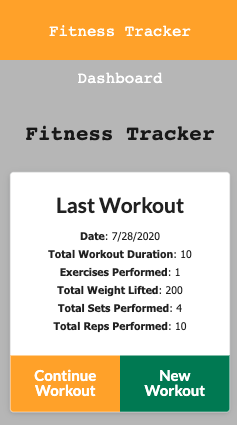
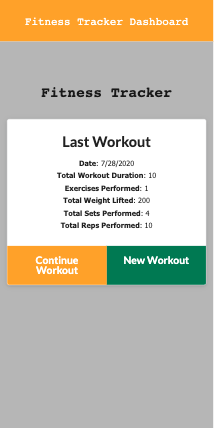
updated css

diff --git a/build/index.html b/build/index.html
@@ -1,1 +1,1 @@
-<!doctype html><html lang="en"><head><meta charset="utf-8"/><link rel="stylesheet" href="https://stackpath.bootstrapcdn.com/bootstrap/4.4.1/css/bootstrap.min.css" integrity="sha384-Vkoo8x4CGsO3+Hhxv8T/Q5PaXtkKtu6ug5TOeNV6gBiFeWPGFN9MuhOf23Q9Ifjh" crossorigin="anonymous"><link href="https://fonts.googleapis.com/css2?family=Allura&family=Merienda:wght@700&family=Parisienne&family=Sacramento&family=Shadows+Into+Light&display=swap" rel="stylesheet"><meta name="viewport" content="width=device-width,initial-scale=1"/><meta name="theme-color" content="#000000"/><meta name="description" content="Web site created using create-react-app"/><link rel="manifest" href="/ReactPortfolio/manifest.json"/><title>Macy Molina</title><link href="/ReactPortfolio/static/css/main.eab1a7c8.chunk.css" rel="stylesheet"></head><body><noscript>You need to enable JavaScript to run this app.</noscript><div id="root"></div><script src="https://code.jquery.com/jquery-3.4.1.slim.min.js" integrity="sha384-J6qa4849blE2+poT4WnyKhv5vZF5SrPo0iEjwBvKU7imGFAV0wwj1yYfoRSJoZ+n" crossorigin="anonymous"></script><script src="https://cdn.jsdelivr.net/npm/popper.js@1.16.0/dist/umd/popper.min.js" integrity="sha384-Q6E9RHvbIyZFJoft+2mJbHaEWldlvI9IOYy5n3zV9zzTtmI3UksdQRVvoxMfooAo" crossorigin="anonymous"></script><script src="https://stackpath.bootstrapcdn.com/bootstrap/4.4.1/js/bootstrap.min.js" integrity="sha384-wfSDF2E50Y2D1uUdj0O3uMBJnjuUD4Ih7YwaYd1iqfktj0Uod8GCExl3Og8ifwB6" crossorigin="anonymous"></script><script>!function(e){function r(r){for(var n,l,f=r[0],i=r[1],a=r[2],c=0,s=[];c<f.length;c++)l=f[c],Object.prototype.hasOwnProperty.call(o,l)&&o[l]&&s.push(o[l][0]),o[l]=0;for(n in i)Object.prototype.hasOwnProperty.call(i,n)&&(e[n]=i[n]);for(p&&p(r);s.length;)s.shift()();return u.push.apply(u,a||[]),t()}function t(){for(var e,r=0;r<u.length;r++){for(var t=u[r],n=!0,f=1;f<t.length;f++){var i=t[f];0!==o[i]&&(n=!1)}n&&(u.splice(r--,1),e=l(l.s=t[0]))}return e}var n={},o={1:0},u=[];function l(r){if(n[r])return n[r].exports;var t=n[r]={i:r,l:!1,exports:{}};return e[r].call(t.exports,t,t.exports,l),t.l=!0,t.exports}l.m=e,l.c=n,l.d=function(e,r,t){l.o(e,r)||Object.defineProperty(e,r,{enumerable:!0,get:t})},l.r=function(e){"undefined"!=typeof Symbol&&Symbol.toStringTag&&Object.defineProperty(e,Symbol.toStringTag,{value:"Module"}),Object.defineProperty(e,"__esModule",{value:!0})},l.t=function(e,r){if(1&r&&(e=l(e)),8&r)return e;if(4&r&&"object"==typeof e&&e&&e.__esModule)return e;var t=Object.create(null);if(l.r(t),Object.defineProperty(t,"default",{enumerable:!0,value:e}),2&r&&"string"!=typeof e)for(var n in e)l.d(t,n,function(r){return e[r]}.bind(null,n));return t},l.n=function(e){var r=e&&e.__esModule?function(){return e.default}:function(){return e};return l.d(r,"a",r),r},l.o=function(e,r){return Object.prototype.hasOwnProperty.call(e,r)},l.p="/ReactPortfolio/";var f=this.webpackJsonpreactportfolio=this.webpackJsonpreactportfolio||[],i=f.push.bind(f);f.push=r,f=f.slice();for(var a=0;a<f.length;a++)r(f[a]);var p=i;t()}([])</script><script src="/ReactPortfolio/static/js/2.d7f67019.chunk.js"></script><script src="/ReactPortfolio/static/js/main.eccd266c.chunk.js"></script></body></html>
+<!doctype html><html lang="en"><head><meta charset="utf-8"/><link rel="stylesheet" href="https://stackpath.bootstrapcdn.com/bootstrap/4.4.1/css/bootstrap.min.css" integrity="sha384-Vkoo8x4CGsO3+Hhxv8T/Q5PaXtkKtu6ug5TOeNV6gBiFeWPGFN9MuhOf23Q9Ifjh" crossorigin="anonymous"><link href="https://fonts.googleapis.com/css2?family=Allura&family=Merienda:wght@700&family=Parisienne&family=Sacramento&family=Shadows+Into+Light&display=swap" rel="stylesheet"><meta name="viewport" content="width=device-width,initial-scale=1"/><meta name="theme-color" content="#000000"/><meta name="description" content="Web site created using create-react-app"/><link rel="manifest" href="/ReactPortfolio/manifest.json"/><title>Macy Molina</title><link href="/ReactPortfolio/static/css/main.378d960f.chunk.css" rel="stylesheet"></head><body><noscript>You need to enable JavaScript to run this app.</noscript><div id="root"></div><script src="https://code.jquery.com/jquery-3.4.1.slim.min.js" integrity="sha384-J6qa4849blE2+poT4WnyKhv5vZF5SrPo0iEjwBvKU7imGFAV0wwj1yYfoRSJoZ+n" crossorigin="anonymous"></script><script src="https://cdn.jsdelivr.net/npm/popper.js@1.16.0/dist/umd/popper.min.js" integrity="sha384-Q6E9RHvbIyZFJoft+2mJbHaEWldlvI9IOYy5n3zV9zzTtmI3UksdQRVvoxMfooAo" crossorigin="anonymous"></script><script src="https://stackpath.bootstrapcdn.com/bootstrap/4.4.1/js/bootstrap.min.js" integrity="sha384-wfSDF2E50Y2D1uUdj0O3uMBJnjuUD4Ih7YwaYd1iqfktj0Uod8GCExl3Og8ifwB6" crossorigin="anonymous"></script><script>!function(e){function r(r){for(var n,l,f=r[0],i=r[1],a=r[2],c=0,s=[];c<f.length;c++)l=f[c],Object.prototype.hasOwnProperty.call(o,l)&&o[l]&&s.push(o[l][0]),o[l]=0;for(n in i)Object.prototype.hasOwnProperty.call(i,n)&&(e[n]=i[n]);for(p&&p(r);s.length;)s.shift()();return u.push.apply(u,a||[]),t()}function t(){for(var e,r=0;r<u.length;r++){for(var t=u[r],n=!0,f=1;f<t.length;f++){var i=t[f];0!==o[i]&&(n=!1)}n&&(u.splice(r--,1),e=l(l.s=t[0]))}return e}var n={},o={1:0},u=[];function l(r){if(n[r])return n[r].exports;var t=n[r]={i:r,l:!1,exports:{}};return e[r].call(t.exports,t,t.exports,l),t.l=!0,t.exports}l.m=e,l.c=n,l.d=function(e,r,t){l.o(e,r)||Object.defineProperty(e,r,{enumerable:!0,get:t})},l.r=function(e){"undefined"!=typeof Symbol&&Symbol.toStringTag&&Object.defineProperty(e,Symbol.toStringTag,{value:"Module"}),Object.defineProperty(e,"__esModule",{value:!0})},l.t=function(e,r){if(1&r&&(e=l(e)),8&r)return e;if(4&r&&"object"==typeof e&&e&&e.__esModule)return e;var t=Object.create(null);if(l.r(t),Object.defineProperty(t,"default",{enumerable:!0,value:e}),2&r&&"string"!=typeof e)for(var n in e)l.d(t,n,function(r){return e[r]}.bind(null,n));return t},l.n=function(e){var r=e&&e.__esModule?function(){return e.default}:function(){return e};return l.d(r,"a",r),r},l.o=function(e,r){return Object.prototype.hasOwnProperty.call(e,r)},l.p="/ReactPortfolio/";var f=this.webpackJsonpreactportfolio=this.webpackJsonpreactportfolio||[],i=f.push.bind(f);f.push=r,f=f.slice();for(var a=0;a<f.length;a++)r(f[a]);var p=i;t()}([])</script><script src="/ReactPortfolio/static/js/2.d7f67019.chunk.js"></script><script src="/ReactPortfolio/static/js/main.eccd266c.chunk.js"></script></body></html>

diff --git a/build/static/css/main.378d960f.chunk.css b/build/static/css/main.378d960f.chunk.css
@@ -1,0 +1,2 @@
+body{margin:0;font-family:-apple-system,BlinkMacSystemFont,"Segoe UI","Roboto","Oxygen","Ubuntu","Cantarell","Fira Sans","Droid Sans","Helvetica Neue",sans-serif;-webkit-font-smoothing:antialiased;-moz-osx-font-smoothing:grayscale}code{font-family:source-code-pro,Menlo,Monaco,Consolas,"Courier New",monospace}.about{margin:5%;text-align:center;font-family:"Merienda",cursive}h2{font-family:-apple-system,BlinkMacSystemFont,"Segoe UI","Roboto","Oxygen","Ubuntu","Cantarell","Fira Sans","Droid Sans","Helvetica Neue",sans-serif}#profilePic{margin-left:40%;border-style:solid;max-width:15%}.tag{color:#fff;text-transform:capitalize}.skills{font-family:"Merienda",cursive;margin-bottom:10%;font-size:larger;text-align:center;position:relative}@media screen and (max-width:600px){.skills{margin-bottom:15%}}@media screen and (max-width:600px){#profilePic{margin-left:25%;max-width:50%}}.container{margin-left:2%;text-transform:capitalize;margin-bottom:8%;width:30%;display:inline-grid}.imgBox{position:relative;overflow:hidden}.imgBoxText{background-color:#958d96}.imgCont{position:relative}.img-fluid{margin-left:25%;max-width:50%}.colorElement{position:absolute;top:50%;left:50%;pointer-events:none;width:calc(100% - 50px);height:calc(100% - 50px);transform:translate(-50%,-50%);-ms-transform:translate(-50%,-50%);-webkit-transform:translate(-50%,-50%)}.imgBox .colorElement{box-shadow:inset 0 0 0 0 hsla(0,0%,100%,.25);transition:all .5s ease}.imgBox:hover .colorElement{box-shadow:inset 0 0 0 40px hsla(0,0%,100%,.25);transition:all .5s ease .75s}.colorElement:before{top:0;left:0;border-top:1px solid #fff;border-left:1px solid #fff}.colorElement:after,.colorElement:before{content:"";position:absolute;width:0;height:0%;opacity:0;transition:all .25s ease .25s}.colorElement:after{bottom:0;right:0;border-right:1px solid #fff;border-bottom:1px solid #fff}.imgBox:hover .colorElement:after,.imgBox:hover .colorElement:before{width:100%;height:100%;opacity:1}.imgBox:hover .colorElement:before{height:100%;transition:all .25s ease 0s}.imgBox:hover .colorElement:after{width:100%;transition:all .25s ease 0s}.imgBox .imgCont:after{content:"";position:absolute;top:0;left:0;width:100%;height:100%;box-shadow:inset 0 0 0 0 rgba(0,0,0,.25);transition:all .5s ease .5s}.imgBox:hover .imgCont:after{box-shadow:inset 0 0 0 25px rgba(0,0,0,.25);transition:all .5s ease .5s}.row{margin-bottom:10%}.imgBoxCont{transition:all .5s ease .25s;top:0;right:0;text-align:left}.imgBox .imgBoxCont:before{content:"";position:relative;top:0;left:0;width:100%;height:100%;opacity:.8}.imgBoxText{transition:all .5s ease .25s;position:absolute;top:50%;left:0;padding:0 30px}.imgBox h2{text-align:center;font-family:"Merienda",cursive;font-size:48px;line-height:49px;margin:0 0 .3em;color:#fff}h2{display:block;font-size:1.5em;-webkit-margin-before:.83em;margin-block-start:.83em;-webkit-margin-after:.83em;margin-block-end:.83em;-webkit-margin-start:0;margin-inline-start:0;-webkit-margin-end:0;margin-inline-end:0;font-weight:700}.subtext{color:#000;text-align:center}.imgBox:hover .subtext{background-color:#958d96}.imgBox:hover p{margin:0 15%}.button{font-family:"Helvetica Neue",Helvetica,Roboto,Arial,sans-serif;font-weight:400;line-height:normal;margin:0 0 1.25rem;position:relative;text-decoration:underline;border-radius:0;padding:1rem 2rem 1.0625rem;font-size:1rem;background-color:#c97c7c;color:#fff;background-color:.3s ease-out}.button,.button a.button{cursor:pointer;text-align:center;-webkit-appearance:none;display:inline-block;border:10%}.button a.button{border-color:#958d96;text-transform:uppercase;text-decoration:none;margin:0 0 1em;font-size:1em;padding:.8em 1em;color:#fefefe;transition:all .25s ease-out;line-height:1;vertical-align:middle;width:auto;letter-spacing:2px;font-family:"Proxima N W01 Reg","Helvetica Neue",Helvetica,Arial,sans-serif}@media (max-width:992px){.imgBoxCont,.subtext{max-width:1140px}}@media (max-width:992px){.imgBoxText{display:none}}@media screen and (max-width:992px){.container{width:50%}}@media screen and (max-width:600px){.container{width:100%}}body{background-color:#c97c7c}nav{box-shadow:10px 5px 5px #000}.navbar-brand{font-family:"Sacramento",cursive;font-size:55px}.navbar-toggler{margin-left:37%}.content{font-family:"Merienda",cursive;font-size:larger;-webkit-margin-before:6%;margin-block-start:6%;color:#c97c7c}@media screen and (max-width:600px){.navbar-toggler{margin-left:42%;max-width:50%}}@media screen and (max-width:600px){.content,.nav-link,.navbar-nav{text-align:-webkit-center}}.footer{color:#c97c7c;font-size:15px;position:relative;text-align:center;left:0;bottom:50px;height:100px;width:100%}.footerConnectCont{font-family:"Merienda",cursive;text-transform:uppercase;background-color:#343a40;padding:10px}.gitImg,.linkedImg{margin-left:20px;max-width:40px}.footerNavCont{background-color:#000;text-align:center;position:relative;padding:50px 0 30px}#mm{margin:0}.topButton{bottom:0;left:50%;color:#f4f5ff;font-size:16px;line-height:1em;text-align:center;text-decoration:none;padding:13px 15px 15px;background-color:rgba(0,0,0,.15)}
+/*# sourceMappingURL=main.378d960f.chunk.css.map */

diff --git a/build/precache-manifest.a7466bc0aefb7234cd50eb460ae4fd75.js b/build/precache-manifest.a7466bc0aefb7234cd50eb460ae4fd75.js
@@ -1,11 +1,11 @@
 self.__precacheManifest = (self.__precacheManifest || []).concat([
   {
-    "revision": "9dc8f6af5b0ae98f4556d0fb9329c396",
+    "revision": "3121ffc20cc2771102da68ec3e7a3846",
     "url": "/ReactPortfolio/index.html"
   },
   {
-    "revision": "eb24346b4a7cf6c9a32e",
-    "url": "/ReactPortfolio/static/css/main.eab1a7c8.chunk.css"
+    "revision": "d5067a74fbfcc06ee005",
+    "url": "/ReactPortfolio/static/css/main.378d960f.chunk.css"
   },
   {
     "revision": "2e8e773f1e71bfb7b3e7",
@@ -16,7 +16,7 @@ self.__precacheManifest = (self.__precacheManifest || []).concat([
     "url": "/ReactPortfolio/static/js/2.d7f67019.chunk.js.LICENSE.txt"
   },
   {
-    "revision": "eb24346b4a7cf6c9a32e",
+    "revision": "d5067a74fbfcc06ee005",
     "url": "/ReactPortfolio/static/js/main.eccd266c.chunk.js"
   },
   {

diff --git a/build/service-worker.js b/build/service-worker.js
@@ -14,7 +14,7 @@
 importScripts("https://storage.googleapis.com/workbox-cdn/releases/4.3.1/workbox-sw.js");
 
 importScripts(
-  "/ReactPortfolio/precache-manifest.e16bc6ea6ec935c9bd36afadac1f5ee8.js"
+  "/ReactPortfolio/precache-manifest.a7466bc0aefb7234cd50eb460ae4fd75.js"
 );
 
 self.addEventListener('message', (event) => {

diff --git a/src/styles/header.css b/src/styles/header.css
@@ -7,7 +7,7 @@ nav {
 }
 
 .navbar-brand {
-    font-family: 'Sacramento', cursive;
+    font-family: 'Merienda', cursive;
     font-size: 55px;
 }
 
